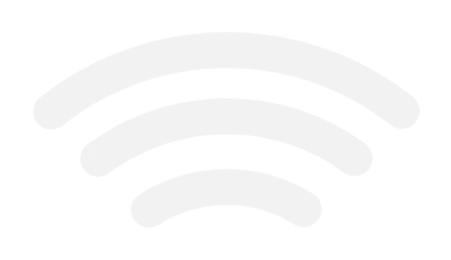
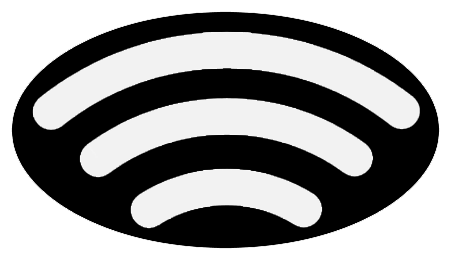
click anim

diff --git a/js/sound.js b/js/sound.js
@@ -1,5 +1,12 @@
 $(document).ready(function(){
 
+	$("#button img").mousedown(function() {
+   	 	$(this).attr("src", "speaker_icon_inverted.png");
+		}).mouseup(function() {
+    	$(this).attr("src", "speaker_icon.png");
+});
+
+
 });
 
 function getNewSound(){
